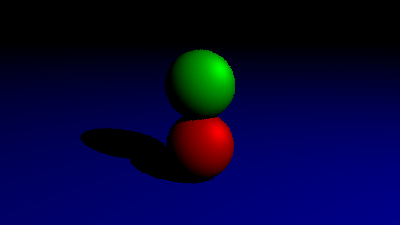
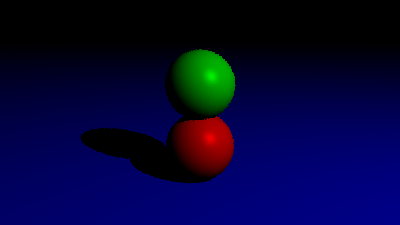
Fixed bug in phong rendering + reorganized some of the code.

Changed region(s): [[0.51, 0.2489, 0.6, 0.3733], [0.51, 0.5289, 0.57, 0.6533]]

diff --git a/raytracer/renderers/phong_renderer.php b/raytracer/renderers/phong_renderer.php
@@ -33,60 +33,30 @@
  */
 
 class PhongRenderer extends Renderer {
-  function render_ray(World $world, Encoder $img, $i, $j, Ray $ray) {
-    // Calculate which object this ray touches
-    $distance = null;
-    $color = Color::$black;
-    foreach ($world->getObjects() as $obj) {
-      $r = $obj->intersect($ray, true, true);
-      if ($r === null) {
-        continue;
-      }
-      if (($distance === null) || ($r['d'] < $distance)) {
-        $distance = $r['d'];
-        // Cast a ray from $r['p'] to the light sources
-        $new_ray = new Ray();
-        $new_ray->setOrigin($r['p']);
-
-        $hits_light = false;
-        foreach ($world->getLights() as $light) {
-          $new_ray->setDirection(Vector::fromAtoB(
-            $new_ray->getOrigin(),
-            $light->getPosition()));
-
-          // Check if this ray hits anything
-          $hits_light = true;
-          foreach ($world->getObjects() as $obj2) {
-            if ($obj2 === $obj) {
-              continue;
-            }
-            if ($obj2->intersect($new_ray, false, false) !== null) {
-              $hits_light = false;
-              break;
-            }
-          }
-          if ($hits_light) {
-            break;
-          }
-        }
-
-        if ($hits_light) {
-          $diffuse_shading = max(Vector::dot($new_ray->getDirection(), $r['n']), 0);
-
-          $reflected_ray = Vector::reflectedRay(
-            $ray->getDirection(),
-            $r['n']);
-
-          $specular_shading = max(Vector::dot($new_ray->getDirection(), $r['n']), 0);
-          $specular_shading = pow($specular_shading, 16);
-
-          $c = clone $obj->getColor();
-          $color = $c->K_mul(min(0.7 * $diffuse_shading + 0.3 * $specular_shading, 1));
-        } else {
-          $color = Color::$black;
-        }
-      }
+  protected function render_ray(World $world, Encoder $img, $i, $j, Ray $ray) {
+    $r = $this->rayIntersection($world, $ray, true, true);
+    if (!$r) {
+      // ray does not intersect any object
+      return;
     }
-    $img->setPixel($i, $j, $color);
+
+    $light_ray = $this->pointLight($world, $r['p'], $r['o']);
+    if (!$light_ray) {
+      // object is not exposed to any lights
+      return;
+    }
+
+    // Calculate pixel's color
+    $diffuse_shading = max(Vector::dot($light_ray->getDirection(), $r['n']), 0);
+
+    $reflected_vector = Vector::reflectedVector($ray->getDirection(), $r['n']);
+
+    $specular_shading = max(Vector::dot($light_ray->getDirection(), $reflected_vector), 0);
+    $specular_shading = pow($specular_shading, 16);
+
+    $c = clone ($r['o']->getColor());
+    $c->K_mul(min(0.7 * $diffuse_shading + 0.3 * $specular_shading, 1));
+
+    $img->setPixel($i, $j, $c);
   }
 }

diff --git a/raytracer/renderers/diffuse_renderer.php b/raytracer/renderers/diffuse_renderer.php
@@ -33,52 +33,24 @@
  */
 
 class DiffuseRenderer extends Renderer {
-  function render_ray(World $world, Encoder $img, $i, $j, Ray $ray) {
-    // Calculate which object this ray touches
-    $distance = null;
-    $color = Color::$black;
-    foreach ($world->getObjects() as $obj) {
-      $r = $obj->intersect($ray, true, true);
-      if ($r === null) {
-        continue;
-      }
-      if (($distance === null) || ($r['d'] < $distance)) {
-        $distance = $r['d'];
-        // Cast a ray from $r['p'] to the light sources
-        $new_ray = new Ray();
-        $new_ray->setOrigin($r['p']);
-
-        $hits_light = false;
-        foreach ($world->getLights() as $light) {
-          $new_ray->setDirection(Vector::fromAtoB(
-            $new_ray->getOrigin(),
-            $light->getPosition()));
-
-          // Check if this ray hits anything
-          $hits_light = true;
-          foreach ($world->getObjects() as $obj2) {
-            if ($obj2 === $obj) {
-              continue;
-            }
-            if ($obj2->intersect($new_ray, false, false) !== null) {
-              $hits_light = false;
-              break;
-            }
-          }
-          if ($hits_light) {
-            break;
-          }
-        }
-
-        if ($hits_light) {
-          $shading = max(Vector::dot($new_ray->getDirection(), $r['n']), 0);
-          $c = clone $obj->getColor();
-          $color = $c->K_mul($shading);
-        } else {
-          $color = Color::$black;
-        }
-      }
+  protected function render_ray(World $world, Encoder $img, $i, $j, Ray $ray) {
+    $r = $this->rayIntersection($world, $ray, true, true);
+    if (!$r) {
+      // ray does not intersect any object
+      return;
     }
-    $img->setPixel($i, $j, $color);
+
+    $light_ray = $this->pointLight($world, $r['p'], $r['o']);
+    if (!$light_ray) {
+      // point is not exposed to any light sources
+      return;
+    }
+
+    // Calculate pixel's color
+    $shading = max(Vector::dot($light_ray->getDirection(), $r['n']), 0);
+    $c = clone ($r['o']->getColor());
+    $c->K_mul($shading);
+
+    $img->setPixel($i, $j, $c);
   }
 }

diff --git a/raytracer/renderers/flat_renderer.php b/raytracer/renderers/flat_renderer.php
@@ -34,50 +34,19 @@
  */
 
 class FlatRenderer extends Renderer {
-  function render_ray(World $world, Encoder $img, $i, $j, Ray $ray) {
-    // Calculate which object this ray touches
-    $distance = null;
-    $color = Color::$black;
-    foreach ($world->getObjects() as $obj) {
-      $r = $obj->intersect($ray, true, false);
-      if ($r === null) {
-        continue;
-      }
-      if (($distance === null) || ($r['d'] < $distance)) {
-        $distance = $r['d'];
-        // Cast a ray from $r['p'] to the light sources
-        $new_ray = new Ray();
-        $new_ray->setOrigin($r['p']);
-        $hits_light = false;
-        foreach ($world->getLights() as $light) {
-          $d = clone $new_ray->getOrigin();
-          $d->neg();
-          $d->V_add($light->getPosition());
-          $new_ray->setDirection($d);
-
-          // Check if this ray hits anything
-          $hits_light = true;
-          foreach ($world->getObjects() as $obj2) {
-            if ($obj2 === $obj) {
-              continue;
-            }
-            if ($obj2->intersect($new_ray, false, false) !== null) {
-              $hits_light = false;
-              break;
-            }
-          }
-          if ($hits_light) {
-            break;
-          }
-        }
-
-        if ($hits_light) {
-          $color = $obj->getColor();
-        } else {
-          $color = Color::$black;
-        }
-      }
+  protected function render_ray(World $world, Encoder $img, $i, $j, Ray $ray) {
+    $r = $this->rayIntersection($world, $ray, true, false);
+    if (!$r) {
+      // ray does not intersect any object
+      return;
     }
-    $img->setPixel($i, $j, $color);
+
+    $light_ray = $this->pointLight($world, $r['p'], $r['o']);
+    if (!$light_ray) {
+      // point is not exposed to any light sources
+      return;
+    }
+
+    $img->setPixel($i, $j, $r['o']->getColor());
   }
 }

diff --git a/raytracer/renderers/renderer.php b/raytracer/renderers/renderer.php
@@ -35,6 +35,57 @@ abstract class Renderer {
     return $this;
   }
 
+  /**
+   *  Find the closest object in $world that $ray intersects.
+   *
+   *  Returns an array(
+   *    'o' => object which intersected
+   *    'd' => distance
+   *    'p' => point of intersection
+   *    'n' => normal vector
+   *  );
+   *
+   *  or null if the ray does not intersect anything.
+   */
+  protected function rayIntersection(World $world, Ray $ray, $compute_point, $compute_normal) {
+    $result = null;
+    foreach ($world->getObjects() as $obj) {
+      $t = $obj->intersect($ray, $compute_point, $compute_normal);
+      if ($t === null) {
+        continue;
+      }
+      if (!$result || ($t['d'] < $result['d'])) {
+        $result = $t;
+        $result['o'] = $obj;
+      }
+    }
+    return $result;
+  }
+
+  protected function pointLight(World $world, Vector $point, Object $ignore) {
+    $ray = new Ray();
+    $ray->setOrigin($point);
+    foreach ($world->getLights() as $light) {
+      $ray->setDirection(Vector::fromAtoB(
+        $point,
+        $light->getPosition()));
+      $hits_light = false;
+      foreach ($world->getObjects() as $obj) {
+        if ($obj === $ignore) {
+          continue;
+        }
+        if ($obj->intersect($ray, false, false) !== null) {
+          $hits_light = true;
+          break;
+        }
+      }
+      if (!$hits_light) {
+        return $ray;
+      }
+    }
+    return null;
+  }
+
   function render(World $world, Encoder $img, $width, $height) {
     $camera = $world->getCamera();
 
@@ -72,5 +123,5 @@ abstract class Renderer {
     }
   }
 
-  abstract function render_ray(World $world, Encoder $img, $i, $j, Ray $ray);
+  abstract protected function render_ray(World $world, Encoder $img, $i, $j, Ray $ray);
 }

diff --git a/raytracer/renderers/simple_renderer.php b/raytracer/renderers/simple_renderer.php
@@ -34,20 +34,13 @@
  */
 
 class SimpleRenderer extends Renderer {
-  function render_ray(World $world, Encoder $img, $i, $j, Ray $ray) {
-    // Calculate which object this ray touches
-    $distance = null;
-    $color = Color::$black;
-    foreach ($world->getObjects() as $obj) {
-      $r = $obj->intersect($ray, false, false);
-      if ($r === null) {
-        continue;
-      }
-      if (($distance === null) || ($r['d'] < $distance)) {
-        $distance = $r['d'];
-        $color = $obj->getColor();
-      }
+  protected function render_ray(World $world, Encoder $img, $i, $j, Ray $ray) {
+    $r = $this->rayIntersection($world, $ray, false, false);
+    if (!$r) {
+      // ray does not intersect any object
+      return;
     }
-    $img->setPixel($i, $j, $color);
+
+    $img->setPixel($i, $j, $r['o']->getColor());
   }
 }

diff --git a/raytracer/world.php b/raytracer/world.php
@@ -27,8 +27,6 @@
  * or implied, of the author.
  */
 
-ini_set('memory_limit', '2000M');
-
 /**
  * The World object. This object is a basically a container. It doesn't
  * do much, beside tie everything together.
@@ -44,6 +42,12 @@ class World {
   protected $lights = array();
   protected $objects = array();
   protected $renderer = null;
+
+  public function __construct() {
+    ini_set('memory_limit', '2000M');
+    // So that each run returns the exact same image
+    mt_srand(0);
+  }
 
   // Sets the camera for the world. Each world should
   // have exactly one camera before rendering can happen

diff --git a/raytracer/vector.php b/raytracer/vector.php
@@ -140,7 +140,7 @@ class Vector {
    * The usual formula is:
    * r = i - 2 * i.n * n
    */
-  public static function reflectedRay(Vector $i, Vector $n) {
+  public static function reflectedVector(Vector $i, Vector $n) {
     $i->assertNormalized();
     $n->assertNormalized();
 
